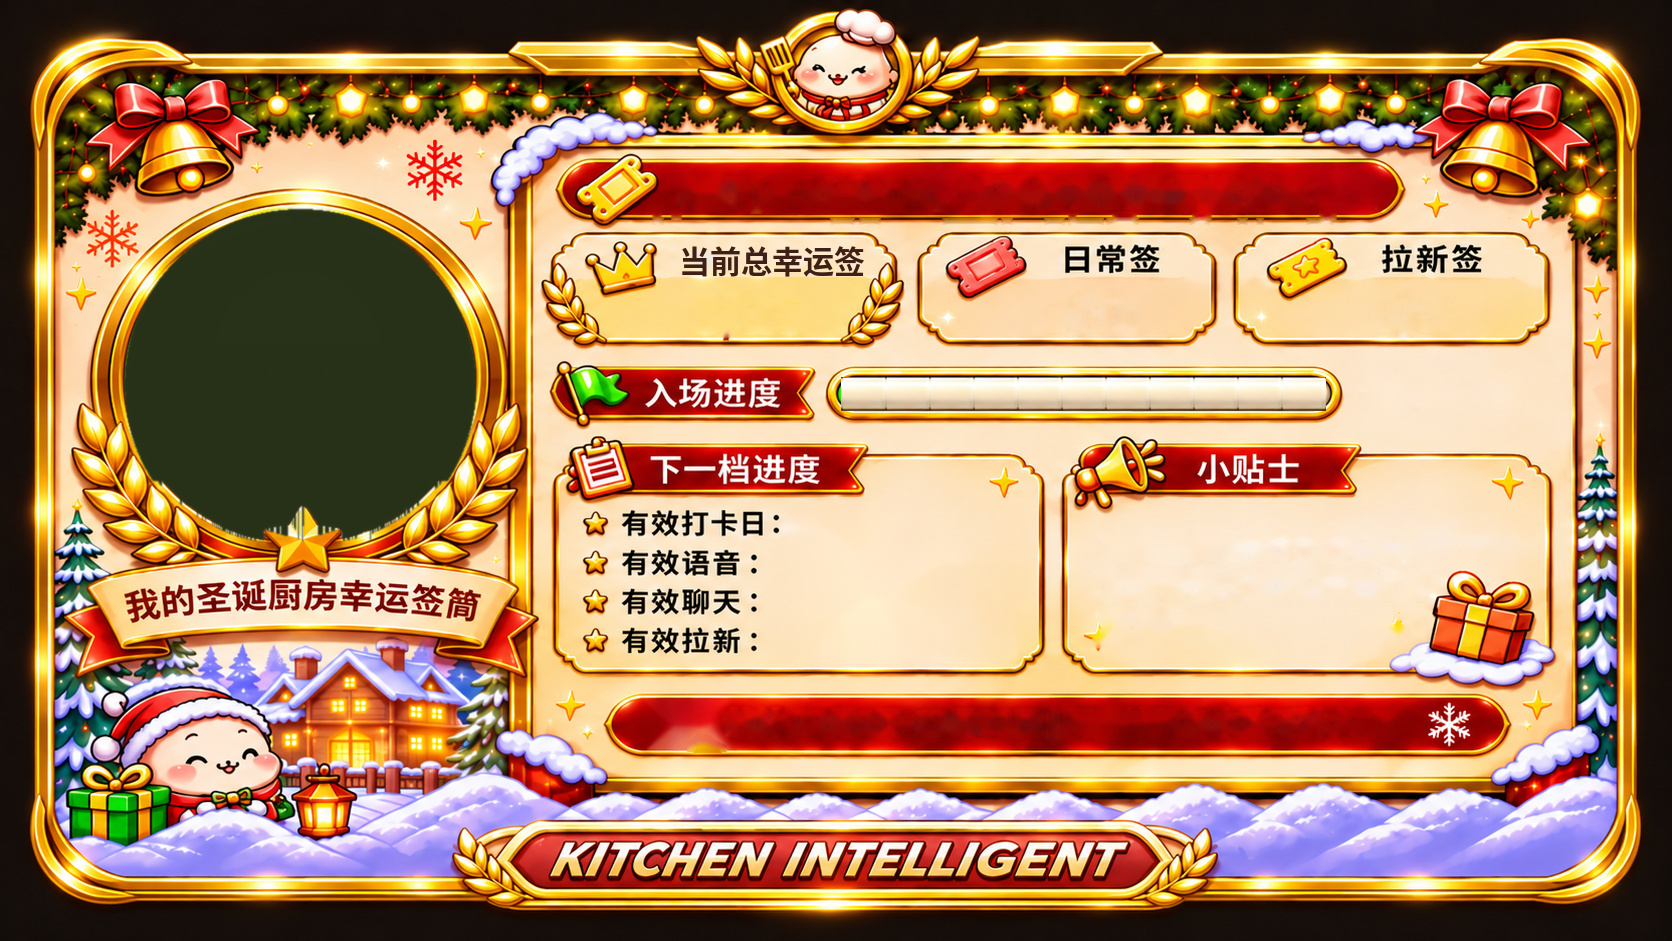
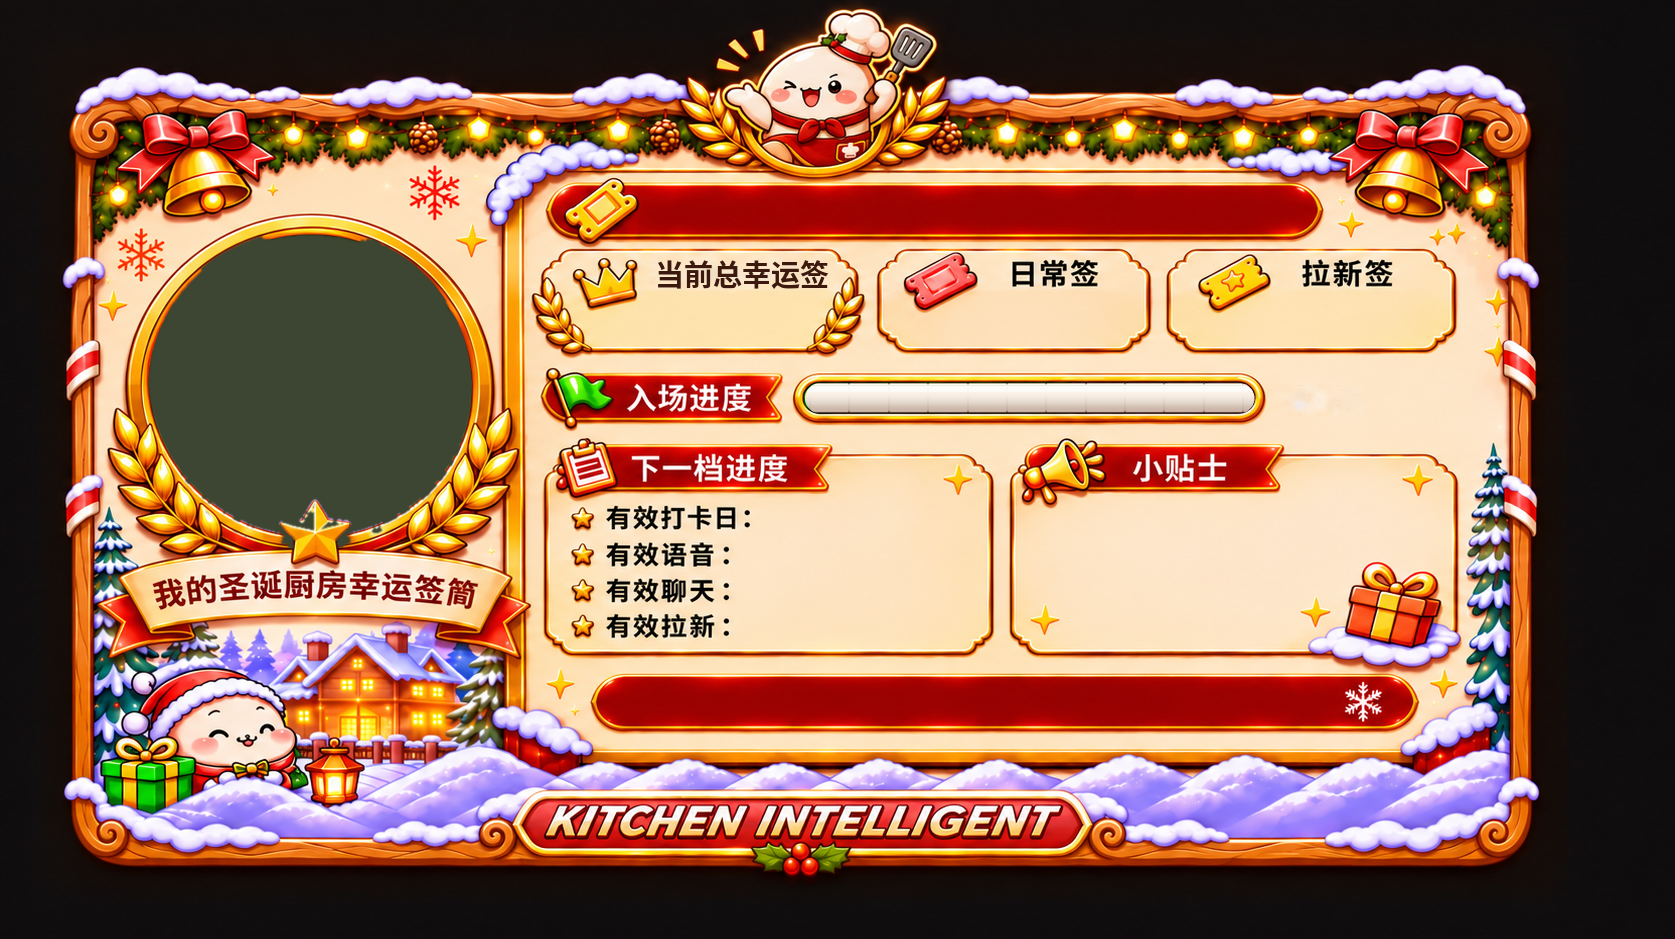
Add files via upload

diff --git a/src/ticketImage.js b/src/ticketImage.js
@@ -13,24 +13,23 @@ const MUTED = 'rgba(74,29,18,0.45)';
 
 // ---- 版面坐标 ----
 const L = {
-  avatar: { x: 126, y: 211, size: 347 }, // 头像先画成方形，再用 avatar-mask.png 裁成圆框的形状
-  greeting: { x: 677, y: 192, size: 32, maxW: 690, nameMaxW: 300 },
+  avatar: { x: 148, y: 227, size: 323 }, // 头像先画成方形，再用 avatar-mask.png 裁成圆形
+  greeting: { x: 645, y: 210, size: 31, maxW: 660, nameMaxW: 300 },
   cards: [
-    { cx: 748, cy: 313, size: 50, color: RED }, // 当前总幸运签
-    { cx: 1107, cy: 313, size: 46, color: INK }, // 日常签
-    { cx: 1408, cy: 313, size: 46, color: INK }, // 拉新签
+    { cx: 700, cy: 322, size: 48, color: RED }, // 当前总幸运签
+    { cx: 1013, cy: 322, size: 46, color: INK }, // 日常签
+    { cx: 1311, cy: 322, size: 46, color: INK }, // 拉新签
   ],
-  bar: { sx: 810, sy: 360, innerLeft: 838, innerW: 494 }, // 进度条素材左上角、绿色区域起点和宽度
-  pct: { cx: 1409, cy: 394, size: 34 },
-  check: { x: 1478, y: 361 },
-  rowsY: [523, 563, 603, 642],
-  rowsX: 810,
-  rowsSize: 27,
-  rowsMaxW: 165,
-  pillLeft: 800,
-  pillHalfH: 17,
-  tip: { x: 1103, y: 548, lineH: 40, size: 28, maxW: 320, maxLines: 3 },
-  footer: { cx: 1042, cy: 722, size: 28, maxW: 640 },
+  bar: { sx: 803, sy: 381, innerLeft: 805, innerW: 449 }, // 进度条素材左上角、填充区起点和宽度
+  pct: { cx: 1326, cy: 401, size: 36 },
+  check: { x: 1386, y: 381 },
+  rowsY: [518, 554, 590, 626],
+  pillLeft: [758, 742, 742, 742], // 每行底色块的左边（标签文字后面）
+  rowsSize: 25,
+  rowsMaxW: 190,
+  pillHalfH: 16,
+  tip: { x: 1042, y: 520, lineH: 38, size: 27, maxW: 270, maxLines: 4 },
+  footer: { cx: 975, cy: 703, size: 28, maxW: 680 },
 };
 const PILL_DAYS = { fill: 'rgb(252,205,195)', text: 'rgb(150,40,35)' };
 const PILL_OTHER = { fill: 'rgb(190,232,150)', text: INK };
@@ -214,10 +213,11 @@ async function renderTicketImage(v) {
       setFont(ctx, L.rowsSize);
       const shown = fit(ctx, v.rows[i], L.rowsMaxW);
       const w = ctx.measureText(shown).width;
-      pill(ctx, L.pillLeft, y - L.pillHalfH, L.rowsX - L.pillLeft + w + 18, L.pillHalfH * 2, style.fill);
-      text(ctx, shown, L.rowsX, y, L.rowsSize, style.text);
+      const left = L.pillLeft[i];
+      pill(ctx, left, y - L.pillHalfH, w + 24, L.pillHalfH * 2, style.fill);
+      text(ctx, shown, left + 12, y, L.rowsSize, style.text);
     } else {
-      text(ctx, '入场后解锁', L.rowsX - 5, y, 25, MUTED, 'left', L.rowsMaxW);
+      text(ctx, '入场后解锁', L.pillLeft[i] + 4, y, 24, MUTED, 'left', L.rowsMaxW);
     }
   }
 

diff --git a/web/wheel.html b/web/wheel.html
@@ -84,7 +84,6 @@
   <div id="rows"></div>
   <div id="ctrl">
     <button id="b-sound"></button>
-    <button id="b-prize"></button>
     <button id="b-auto"></button>
   </div>
   <div id="order" hidden>
@@ -128,7 +127,7 @@ let autoFails = 0;
 function lsGet(k, d) { try { const v = localStorage.getItem(k); return v === null ? d : v === '1'; } catch (e) { return d; } }
 function lsSet(k, v) { try { localStorage.setItem(k, v ? '1' : '0'); } catch (e) {} }
 let soundOn = lsGet('wheel.sound', true);
-let showPrize = lsGet('wheel.prize', false);   // 默认不显示「豪华大礼」
+const showPrize = false;                       // 抽奖时不显示「豪华大礼」
 let autoOn = false;                            // 自动抽剩下名额（每次打开页面都是关）
 
 /* ---------- 音效 ---------- */
@@ -310,8 +309,6 @@ function topDone() {
 function renderControls() {
   $('b-sound').textContent = `🔊 音效：${soundOn ? '开' : '关'}`;
   $('b-sound').className = soundOn ? 'on' : '';
-  $('b-prize').textContent = `🎁 显示大礼：${showPrize ? '开' : '关'}`;
-  $('b-prize').className = showPrize ? 'on' : '';
   const ok = state && topDone();
   $('b-auto').textContent = `🤖 自动抽剩下：${autoOn ? '开' : '关'}`;
   $('b-auto').className = autoOn ? 'on' : '';
@@ -485,7 +482,6 @@ function layout() {
 }
 $('spin').addEventListener('click', doSpin);
 $('b-sound').addEventListener('click', () => { soundOn = !soundOn; lsSet('wheel.sound', soundOn); if (!soundOn) Object.keys(sfx).forEach((k) => stopSfx(k, 0)); if (state) renderControls(); });
-$('b-prize').addEventListener('click', () => { showPrize = !showPrize; lsSet('wheel.prize', showPrize); if (state) render(); });
 $('b-auto').addEventListener('click', () => { autoOn = !autoOn; autoFails = 0; if (state) renderControls(); });
 async function chooseOrder(mode) { const r = await api('/api/order', { method: 'POST' }, '&mode=' + mode); if (!r.ok) $('hint').textContent = r.error || ''; refresh(); }
 $('o-desc').addEventListener('click', () => chooseOrder('desc'));
